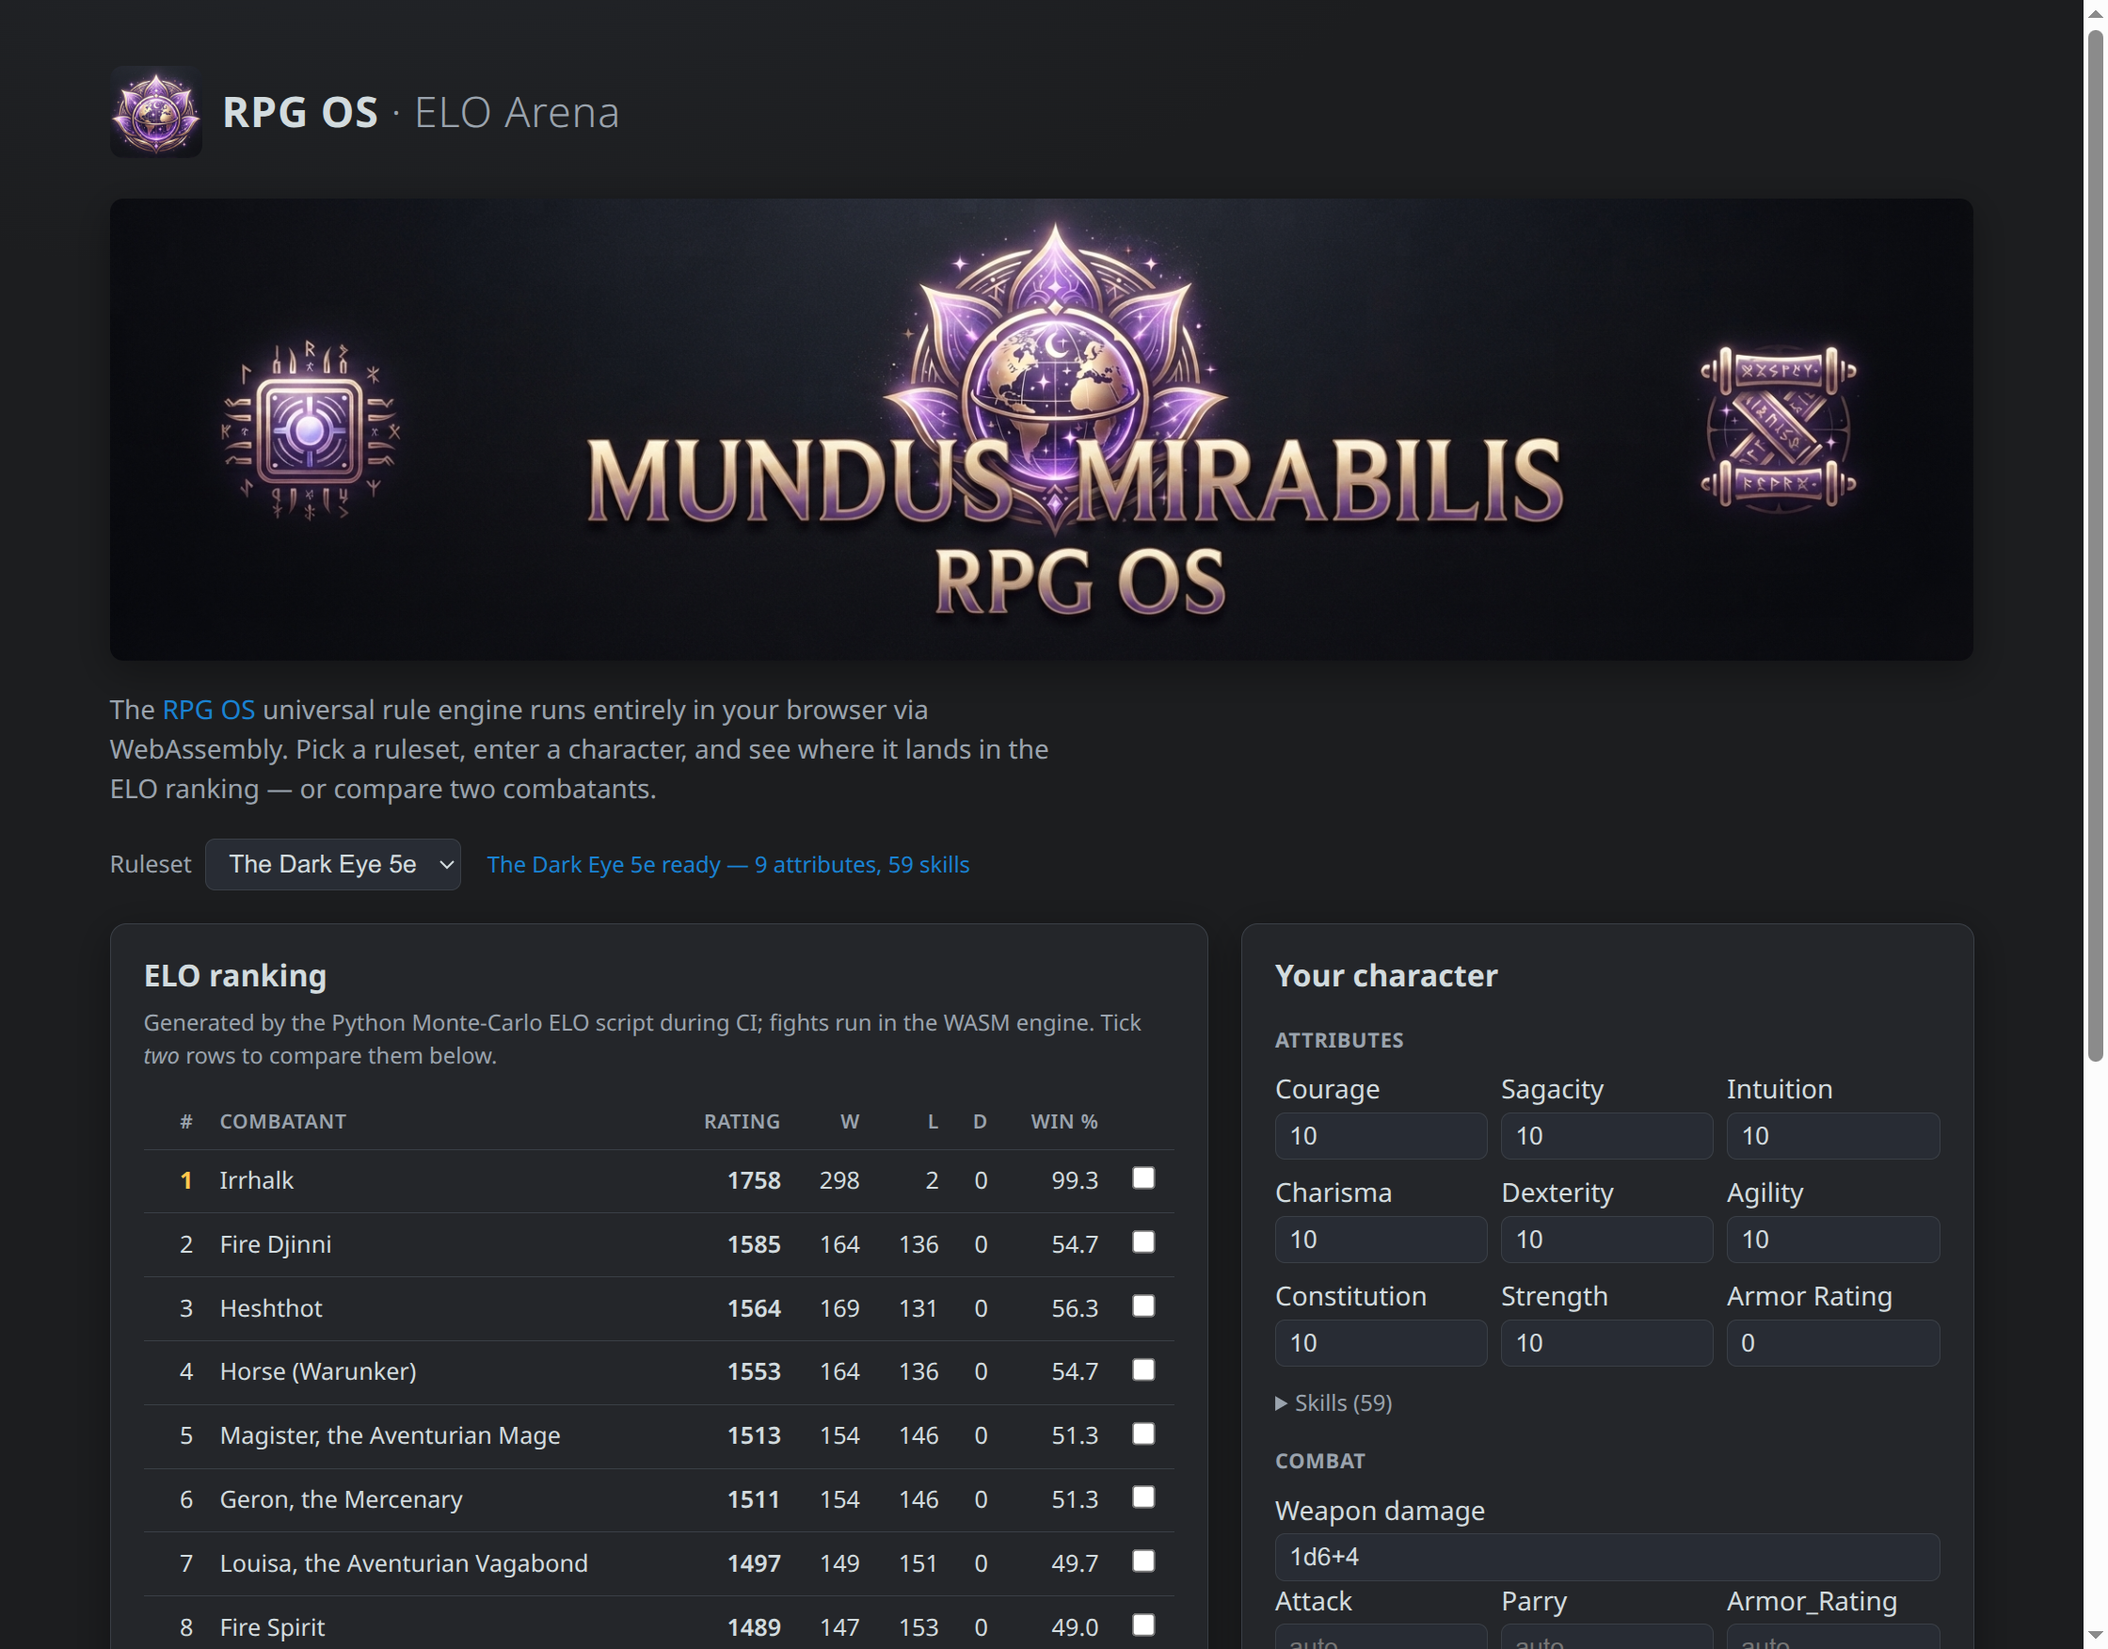
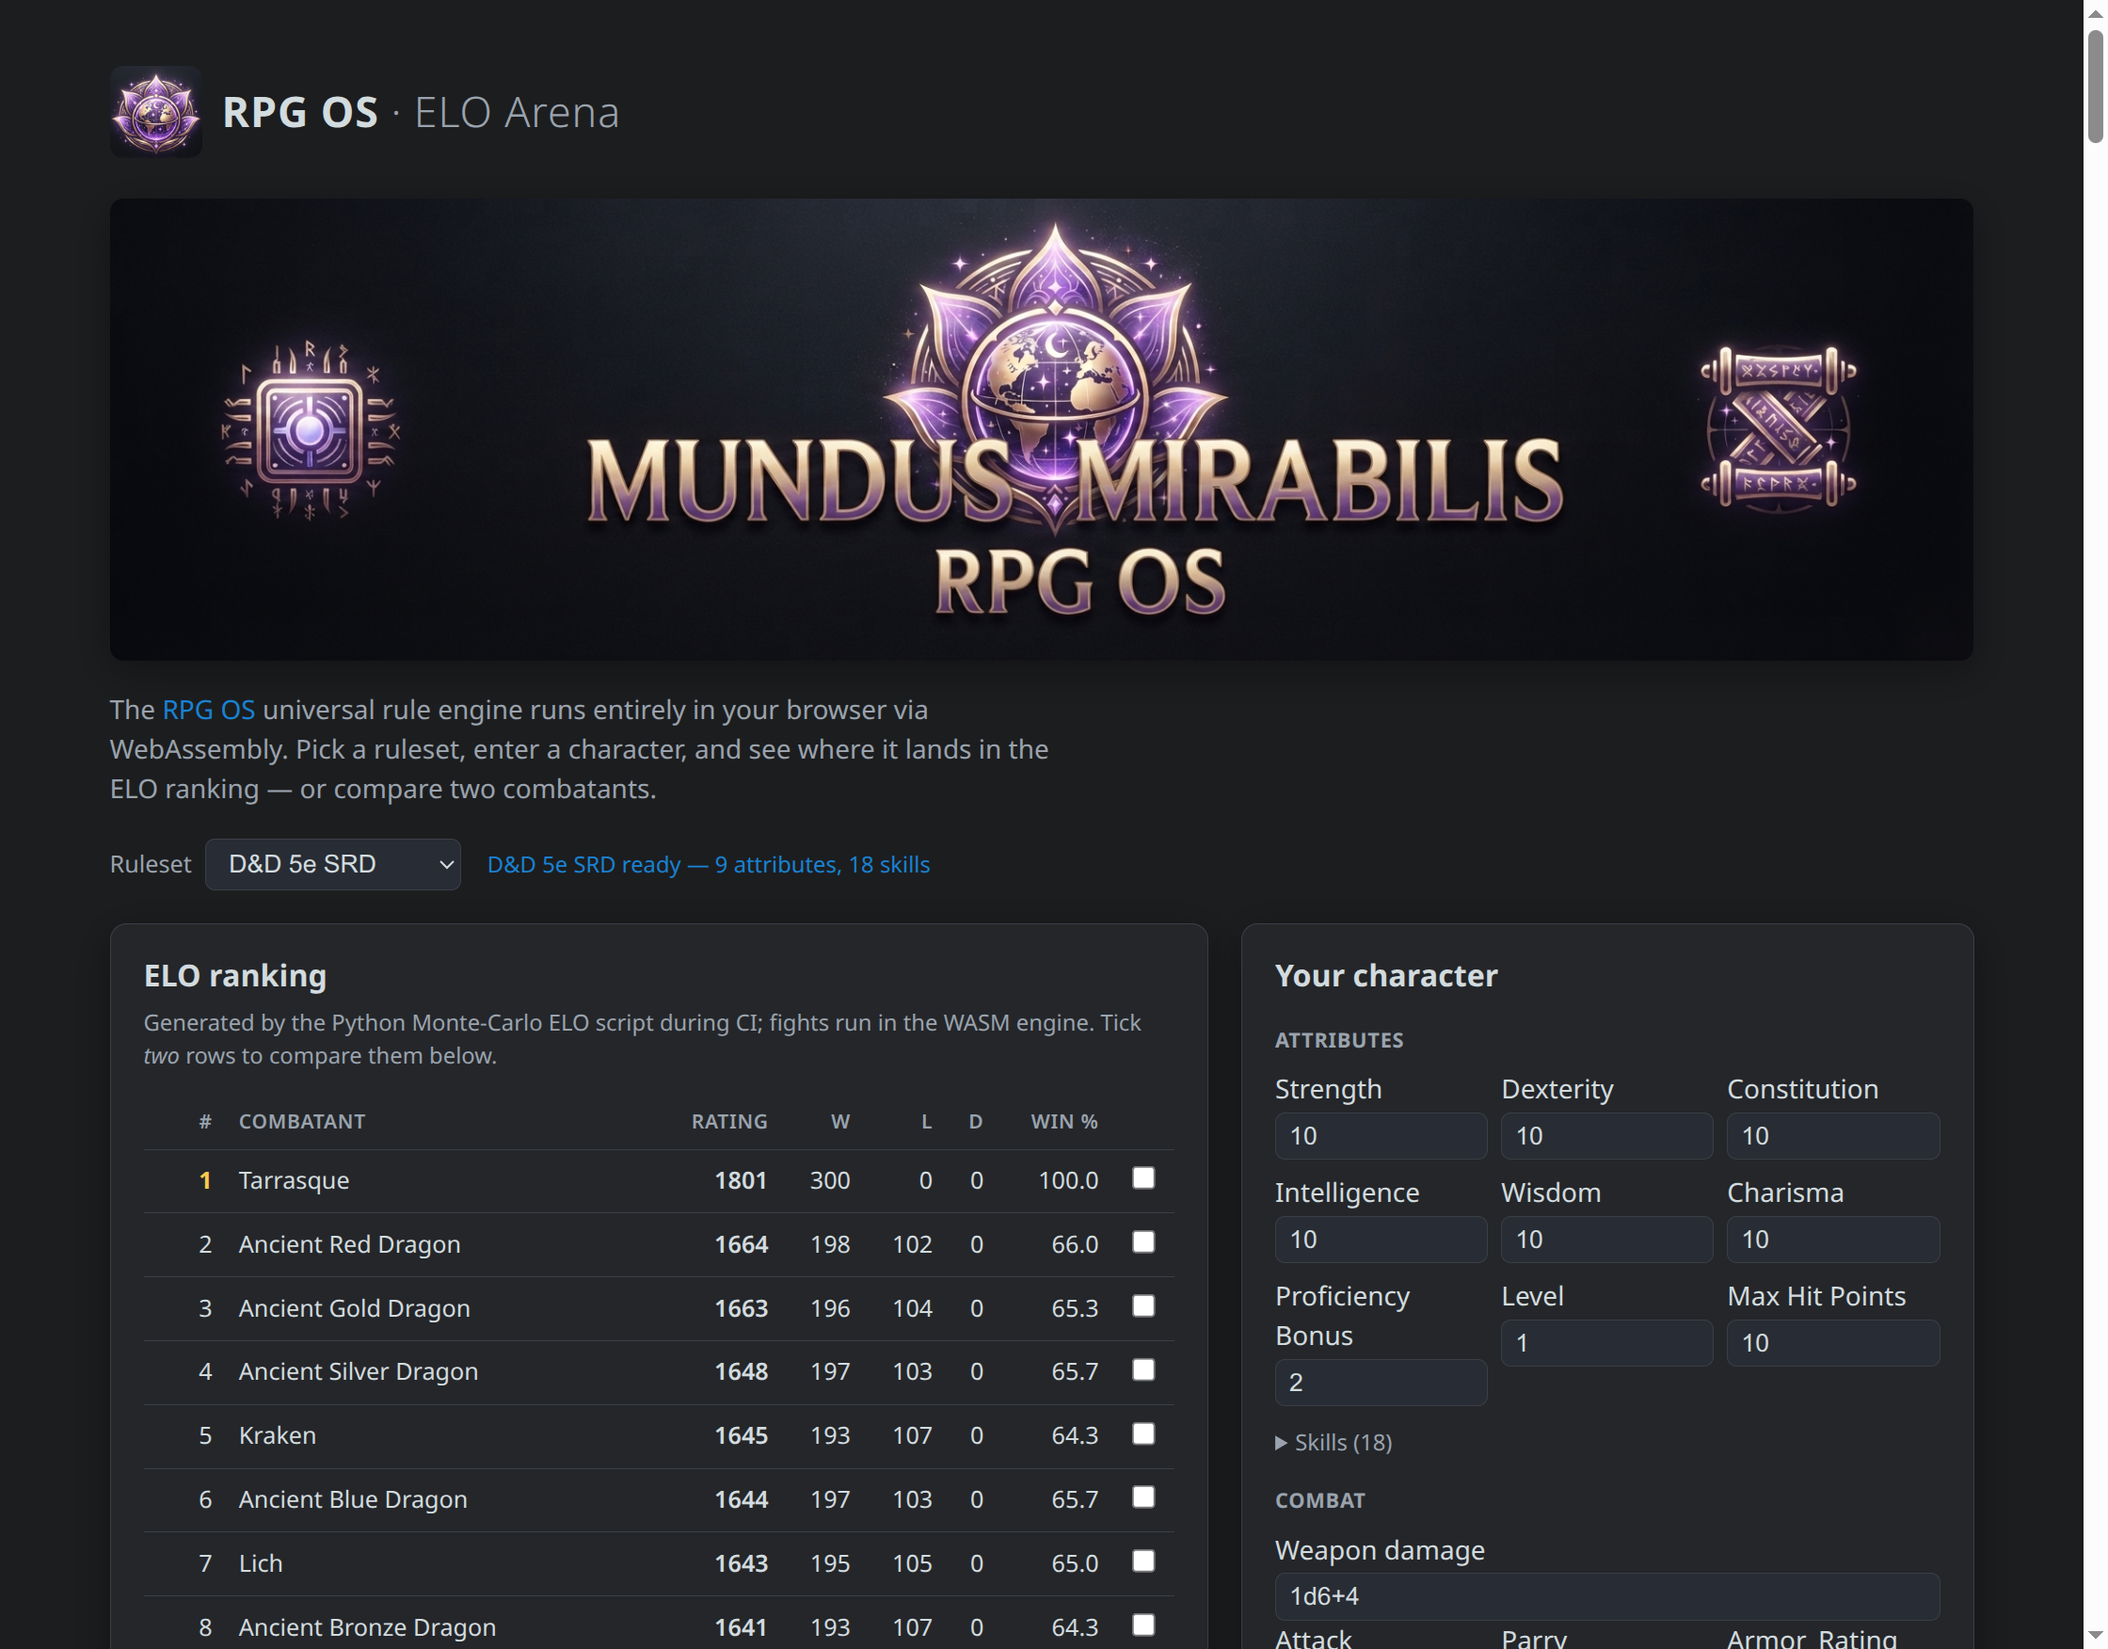
Update screenshot and licence information

diff --git a/web/demo/app.js b/web/demo/app.js
@@ -36,6 +36,7 @@ let leaderboard = []; // [{rank,id,name,rating,games,wins,losses,draws,win_pct}]
 let you = null; // { name, rating, spec } for the ranked character (spec kept alive)
 let selection = []; // ids of the selected rows (max 2)
 let formDebounce = 0;
+let leaderboardMeta = ''; // metadata line shown under the leaderboard table
 
 function setStatus(text, isError = false) {
   status.textContent = text;
@@ -43,52 +44,81 @@ function setStatus(text, isError = false) {
 }
 
 /**
- * Shows the loaded ruleset's OWN licence (the rules are NOT Apache-2.0 — each
- * ruleset carries its own licence in the JSON), plus the source document, an
- * optional link to where the rights holder states the licence, and the
- * verbatim notice/attribution text the licence requires (e.g. the ORC Notice).
+ * Renders the loaded ruleset's OWN licence in a box at the bottom of the
+ * page. The rules are NOT Apache-2.0 (the engine and this page are), so the
+ * box states that distinction up front, then shows the licence statement,
+ * where the rights holder states it, the source document, and the verbatim
+ * notice/attribution the licence requires (e.g. the ORC Notice).
  */
 function renderLicence() {
-  const el = $('#ruleset-licence');
+  const el = $('#ruleset-licence-box');
   el.innerHTML = '';
   if (!meta?.licence) {
     el.hidden = true;
     return;
   }
-  const line = document.createElement('p');
-  const label = document.createElement('span');
-  label.textContent = 'Ruleset licence: ';
-  const lic = document.createElement('b');
-  lic.textContent = meta.licence;
-  line.append(label, lic);
+
+  const head = document.createElement('div');
+  head.className = 'licence-box-head';
+
+  const eyebrow = document.createElement('span');
+  eyebrow.className = 'licence-eyebrow';
+  eyebrow.textContent = 'Ruleset licence';
+
+  const title = document.createElement('h2');
+  title.textContent = 'The ruleset is not Apache-2.0';
+
+  const note = document.createElement('p');
+  note.className = 'licence-note';
+  note.append('RPG OS — the engine and this page — is Apache-2.0. ');
+  const strong = document.createElement('b');
+  strong.textContent =
+    'The licence below belongs to the loaded ruleset, not to the application:';
+  note.append(strong, ' read it before reusing or redistributing the rules.');
+  head.append(eyebrow, title, note);
+
+  const body = document.createElement('div');
+  body.className = 'licence-box-body';
+
+  const statement = document.createElement('p');
+  statement.className = 'licence-statement';
+  statement.textContent = meta.licence;
+  body.append(statement);
+
+  const metaLine = document.createElement('p');
+  metaLine.className = 'licence-meta';
+  if (meta.source) {
+    const src = document.createElement('span');
+    src.textContent = `Source: ${meta.source}`;
+    metaLine.append(src);
+  }
   if (meta.licence_source) {
-    line.append(document.createTextNode(' · '));
+    if (metaLine.childNodes.length > 0) metaLine.append(document.createTextNode(' · '));
     const link = document.createElement('a');
     link.href = meta.licence_source;
     link.target = '_blank';
     link.rel = 'noopener noreferrer';
-    link.textContent = 'licence source';
-    line.append(link);
+    link.textContent = 'Where the licence is stated';
+    metaLine.append(link);
   }
-  if (meta.source) {
-    line.append(document.createTextNode(' · '));
-    const src = document.createElement('span');
-    src.className = 'muted';
-    src.textContent = meta.source;
-    line.append(src);
-  }
-  el.append(line);
+  if (metaLine.childNodes.length > 0) body.append(metaLine);
 
-  // The licence's own required notice and attribution (e.g. the ORC Notice).
-  for (const [key, cls] of [['licence_notice', 'licence-detail'],
-                            ['attribution', 'licence-detail']]) {
-    if (meta[key]) {
+  let details = null;
+  for (const key of ['licence_notice', 'attribution']) {
+    if (meta?.[key]) {
+      if (!details) {
+        details = document.createElement('div');
+        details.className = 'licence-details';
+      }
       const p = document.createElement('p');
-      p.className = cls;
+      p.className = 'licence-detail';
       p.textContent = meta[key];
-      el.append(p);
+      details.append(p);
     }
   }
+  if (details) body.append(details);
+
+  el.append(head, body);
   el.hidden = false;
 }
 
@@ -120,7 +150,7 @@ async function loadRuleset(id) {
   setStatus(`Loading ${cfg.label}…`);
   clearForm();
   selection = [];
-  $('#ruleset-licence').hidden = true;
+  $('#ruleset-licence-box').hidden = true;
   you?.spec?.dispose();
   you = null;
   renderDuel();
@@ -154,12 +184,13 @@ async function loadLeaderboard(rulesetId) {
       'Leaderboard not found — it is generated by CI (scripts/elo_ranking.py --json). ' +
       'Run it locally and place the JSON in data/ to preview.';
     leaderboard = [];
+    leaderboardMeta = '';
     return;
   }
   leaderboard = data.entries
     .map((e) => ({ ...e, name: entriesByName.get(e.id) ?? e.id }))
     .sort((a, b) => a.rank - b.rank);
-  leaderboardNote.textContent =
+  leaderboardMeta =
     `${data.entries.length} combatants · ${data.rounds} rounds × ${data.games_per_pair} games/pair · ` +
     `seed ${data.seed} · champion: ${data.champion}`;
   renderLeaderboard();
@@ -169,8 +200,28 @@ async function loadLeaderboard(rulesetId) {
 // leaderboard rendering + selection
 // ---------------------------------------------------------------------------
 
+/** Every row the table can show: the stored leaderboard plus the ranked
+ *  character ("You") when present. */
+function allEntries() {
+  return [...leaderboard, ...(you ? [{ ...you, isYou: true }] : [])];
+}
+
+function entryById(id) {
+  return allEntries().find((e) => e.id === id);
+}
+
+/** Reference for the relative "Win %" column: the single selected combatant
+ *  (if exactly one row is ticked), or the generated character when nothing is
+ *  selected — otherwise null, which keeps the stored win rate. */
+function winPctReference() {
+  if (selection.length === 1) return entryById(selection[0]) ?? null;
+  if (selection.length === 0 && you) return you;
+  return null;
+}
+
 function renderLeaderboard() {
   leaderboardBody.innerHTML = '';
+  const reference = winPctReference();
   const rows = [...leaderboard];
   if (you) {
     const youRow = {
@@ -181,7 +232,7 @@ function renderLeaderboard() {
     rows.push(youRow);
   }
   rows.sort((a, b) => b.rating - a.rating);
-  rows.forEach((entry, index) => {
+  rows.forEach((entry) => {
     const tr = document.createElement('tr');
     if (entry.isYou) tr.classList.add('you');
     if (selection.includes(entry.id)) tr.classList.add('selected');
@@ -208,6 +259,12 @@ function renderLeaderboard() {
       return td;
     };
 
+    // Win % against the reference (a single selected row, or the ranked
+    // character); the reference itself therefore shows exactly 50%.
+    const winPct = reference
+      ? winProbability(entry.rating, reference.rating) * 100
+      : entry.win_pct;
+
     const pickTd = document.createElement('td');
     pickTd.className = 'pick';
     const box = document.createElement('input');
@@ -219,10 +276,13 @@ function renderLeaderboard() {
 
     tr.append(rankTd, nameTd,
       num(Math.round(entry.rating), 'rating'), num(entry.wins), num(entry.losses),
-      num(entry.draws), num(entry.win_pct.toFixed(1)), pickTd);
+      num(entry.draws), num(winPct.toFixed(1)), pickTd);
     tr.addEventListener('click', () => toggleSelection(entry.id));
     leaderboardBody.append(tr);
   });
+
+  leaderboardNote.textContent = leaderboardMeta +
+    (reference ? ` · Win % shown relative to ${reference.name}` : '');
 }
 
 function toggleSelection(id) {
@@ -253,10 +313,8 @@ function renderDuel() {
   $('#duel-hint').textContent = '';
 
   const [idA, idB] = selection;
-  const find = (id) => [...leaderboard, ...(you ? [{ ...you, isYou: true }] : [])]
-    .find((e) => e.id === id);
-  const a = find(idA);
-  const b = find(idB);
+  const a = entryById(idA);
+  const b = entryById(idB);
   if (!a || !b) return;
 
   const pa = winProbability(a.rating, b.rating);
@@ -486,9 +544,9 @@ async function rankCharacter(event) {
       draws: result.draws,
       games: result.games,
     };
-    renderLeaderboard();
     renderRankResult(result, opponents);
     selection = [];
+    renderLeaderboard();
     renderDuel();
   } catch (err) {
     setStatus(`Ranking failed: ${err.message}`, true);

diff --git a/web/demo/style.css b/web/demo/style.css
@@ -131,31 +131,81 @@ a:hover {
   color: var(--bad);
 }
 
-/* The loaded ruleset's own licence + source (the rules are not Apache-2.0). */
-.licence {
-  margin: 10px 0 0;
-  font-size: 0.85rem;
-  color: var(--muted);
-  line-height: 1.5;
-}
-
-.licence p {
+/* The loaded ruleset's own licence, in a box at the bottom of the page. The
+   rules are NOT Apache-2.0 (the engine and this page are), so the box states
+   that distinction up front: the licence shown belongs to the ruleset, not to
+   the application. */
+.licence-box {
   margin: 0 0 4px;
+  background: linear-gradient(180deg, var(--panel), var(--panel-2));
+  border: 1px solid var(--border);
+  border-left: 4px solid var(--accent);
+  border-radius: var(--radius);
+  box-shadow: var(--shadow);
+  padding: 18px 20px 20px;
+  color: var(--text);
+  line-height: 1.6;
 }
 
-.licence p:last-child {
-  margin-bottom: 0;
+.licence-box-head .licence-eyebrow {
+  display: block;
+  margin-bottom: 6px;
+  font-size: 0.72rem;
+  font-weight: 700;
+  letter-spacing: 1.2px;
+  text-transform: uppercase;
+  color: var(--accent);
 }
 
-/* Verbatim notice/attribution text the licence requires (e.g. the ORC Notice). */
-.licence-detail {
-  font-size: 0.8rem;
+.licence-box-head h2 {
+  margin: 0 0 6px;
+  font-size: 1.15rem;
 }
 
-.licence a {
+.licence-box-head .licence-note {
+  margin: 0 0 14px;
+  color: var(--muted);
+  font-size: 0.9rem;
+}
+
+.licence-box-head .licence-note b {
+  color: var(--text);
+}
+
+.licence-statement {
+  margin: 0 0 6px;
+  font-size: 0.9rem;
+}
+
+.licence-meta {
+  margin: 0 0 6px;
+  font-size: 0.82rem;
+  color: var(--muted);
+}
+
+.licence-meta a {
   color: var(--accent);
   text-decoration: underline;
   text-underline-offset: 2px;
+}
+
+/* Verbatim notice/attribution text the licence requires (e.g. the ORC Notice). */
+.licence-details {
+  margin-top: 10px;
+  padding: 12px 14px;
+  background: var(--panel);
+  border: 1px solid var(--border);
+  border-radius: 8px;
+  font-size: 0.82rem;
+  color: var(--muted);
+}
+
+.licence-details p {
+  margin: 0 0 6px;
+}
+
+.licence-details p:last-child {
+  margin-bottom: 0;
 }
 
 main {

diff --git a/web/demo/index.html b/web/demo/index.html
@@ -31,7 +31,6 @@
       </label>
       <span id="status" class="status" role="status" aria-live="polite">Loading engine…</span>
     </div>
-    <div id="ruleset-licence" class="licence" hidden></div>
   </header>
 
   <main>
@@ -80,6 +79,8 @@
       <p id="duel-hint" class="hint">Select two rows in the ranking to see the ELO win probability.</p>
       <div id="duel-result" class="duel"></div>
     </section>
+
+    <div id="ruleset-licence-box" class="licence-box" hidden></div>
   </main>
 
   <footer class="site-footer">

diff --git a/web/demo/README.md b/web/demo/README.md
@@ -11,7 +11,10 @@ via `needs`, so the two gh-pages pushes can never race).
 1. **ELO ranking** — a leaderboard of every combatant in the selected ruleset
    (The Dark Eye 5e or D&D 5e SRD). The leaderboards are generated *during the
    CI run* by `scripts/elo_ranking.py --json` (the Python Monte-Carlo ELO over
-   the native fight binary) and stored in `data/<ruleset>_elo.json`.
+   the native fight binary) and stored in `data/<ruleset>_elo.json`. Tick
+   exactly one row (or generate a character below) and the **Win %** column
+   shows every combatant's win chance *relative to* that one — so it shows
+   exactly 50% for the reference itself.
 2. **Character entry form** — attributes and skills generated from the loaded
    ruleset's schema. The entered character is ranked **live in the browser**:
    the WASM engine fights it against the top combatants and the JS ELO formula
@@ -19,12 +22,14 @@ via `needs`, so the two gh-pages pushes can never race).
 3. **Head to head** — tick two rows; the ELO win probability is shown, with an
    optional live 100-fight Monte-Carlo confirmation running in the WASM engine.
 
-The page header shows the currently loaded ruleset's **own licence** and a link
-to where it is stated, plus the verbatim notice/attribution text the licence
-requires (e.g. the ORC Notice), read from `rpg.meta()` at runtime (so it always
-matches the JSON actually loaded). The ruleset data is **not** Apache-2.0 — the
-Apache-2.0 licence covers only the engine/demo code. See the root `README.md`
-for the per-ruleset licence table.
+The currently loaded ruleset's **own licence** is shown in a dedicated box at
+the bottom of the page (read from `rpg.meta()` at runtime, so it always matches
+the JSON actually loaded). The box makes the ruleset-vs-application distinction
+explicit up front: it states that the rules are **not** Apache-2.0 — the
+Apache-2.0 licence covers only the engine/demo code — and then shows the
+licence statement, where the rights holder states it, the source document, and
+the verbatim notice/attribution text the licence requires (e.g. the ORC
+Notice). See the root `README.md` for the per-ruleset licence table.
 
 ## Layout
 
